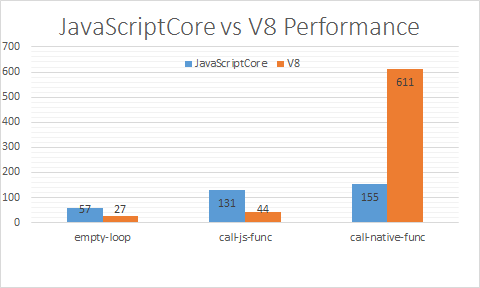
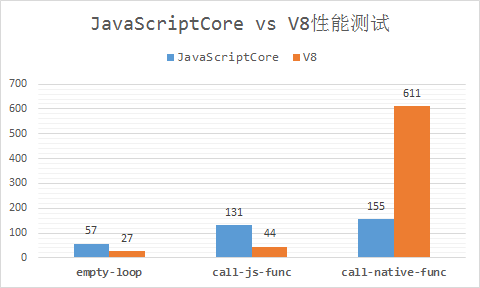
post jsc v8 performance

diff --git a/_posts/2014-05-25-jsc-v8-performance.md b/_posts/2014-05-25-jsc-v8-performance.md
@@ -11,10 +11,10 @@ comments: true
 
 &emsp;&emsp;虽然JavaScriptCore和V8都分别推出了自己的跑分工具，但我个人认为这个跑分工具意义不是很大，而且各家都针对自己的特性来修改跑分工具。另外，业界也有很多人站出来批判，说单纯的测试JavaScriptCor和V8的性能没有意义，因为这些测试都只是单纯的测试JavaScript在不同引擎上的performance，而对于浏览器而言，渲染以及DOM操作才是真正影响用户体验的。对于这一点，我也不太赞同。因为现在已经有越来越多的应用和框架将JavaScript引擎从浏览器中剥离开来，特别是在Google V8崛起之后，JavaScript引擎开始逐渐独立出来，而不是非要跟浏览器绑定，例如Nodejs。在JavaScript引擎独立方面，JavaScriptCore就显得比较逊色了，目前JavaScriptCore还是跟WebKit绑定的非常紧密，甚至有些重要的特性需要依赖于WebKit，例如JavaScriptCore的GC机制，使得JavaScriptCore剥离出来比较困难，还需要修改源码，而V8则显得非常独立。
 
-&emsp;&emsp;对于JavaScript引擎的性能最终表现在时间和内存消耗。时间的消耗一方面是JS的一些运算逻辑，以及函数调用。通过一些压力测试，对于JavaScriptCore和V8在时间消耗上的性能对比图如下：   
+&emsp;&emsp;对于JavaScript引擎的性能最终表现在时间和内存消耗。时间的消耗一方面是JS的一些运算逻辑，以及函数调用。通过一些压力测试，在Android平台上对于JavaScriptCore和V8在时间消耗上的性能对比图如下：   
 
 
-![Alt text](/images/jsc-v8-performance.png)
+ ![Alt text](/images/jsc-v8-performance.png)
 
 * empty-loop
 空循环100000次(毫秒)
@@ -25,4 +25,4 @@ comments: true
 * call-native-func
 调用native方法100000次耗时(毫秒)
 
-从上面的对比图可以发现，除了调用native方法以外，其他几个V8都要好于JavaScriptCore.
+从上面的对比图可以发现，除了调用native方法以外，其他几个V8都要好于JavaScriptCore. 在2008年以后，JavaScriptCore有一些重大的重构，这些重构对于JavaScriptCore的性能有重大的提高。JavaScriptCore会根据同一个函数调用次数来做针对性的优化。V8相对于JavaScriptCore的优势在于使用了创建Hidden class的技术，使得能够快速创建对象以及快速访问属性。JavaScriptCore和V8都做到了可以动态将JavaScript代码编译成汇编。另外，V8在多线程方面处理的要比JavaScriptCore好得多。另外，根据我自己的项目经验，发现JavaScriptCore的内存回收效率要比V8要高，同样一段JavaScript代码，在V8上的平均内存占用要比JavaScriptCore高。
